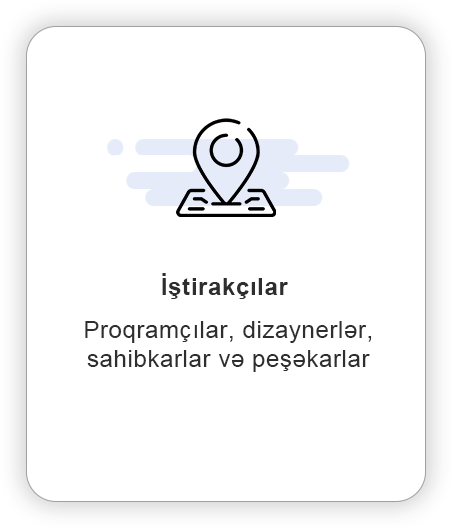
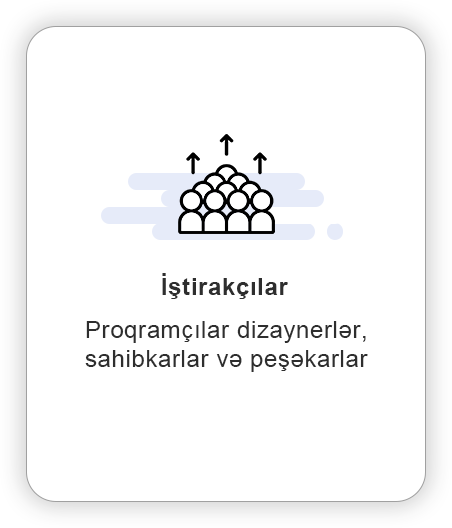
Replaced all the slider images on both languages

Changed region(s): [[0.2168, 0.2121, 0.7743, 0.4545], [0.1858, 0.6061, 0.8363, 0.697]]

diff --git a/index.html b/index.html
@@ -64,7 +64,7 @@
       <div class="swiper-slide"><img src="images/az-slider-participants.png"></div>
       <div class="swiper-slide"><img src="images/az-slider-brain.png"></div>
       <div class="swiper-slide"><img src="images/az-slider-calendar.png"></div>
-      <div class="swiper-slide"><img src="images/az-slider-develop.png"></div>
+      <div class="swiper-slide"><img src="images/az-slider-location.png"></div>
       <div class="swiper-slide"><img src="images/az-slider-maze.png"></div>
       <div class="swiper-slide"><img src="images/az-slider-prizes.png"></div>
     </div>

diff --git a/eng.html b/eng.html
@@ -55,7 +55,7 @@
       <div class="swiper-slide"><img src="images/slider-participants.png"></div>
       <div class="swiper-slide"><img src="images/slider-brain.png"></div>
       <div class="swiper-slide"><img src="images/slider-calendar.png"></div>
-      <div class="swiper-slide"><img src="images/slider-develop.png"></div>
+      <div class="swiper-slide"><img src="images/slider-location.png"></div>
       <div class="swiper-slide"><img src="images/slider-maze.png"></div>
       <div class="swiper-slide"><img src="images/slider-prizes.png"></div>
     </div>
